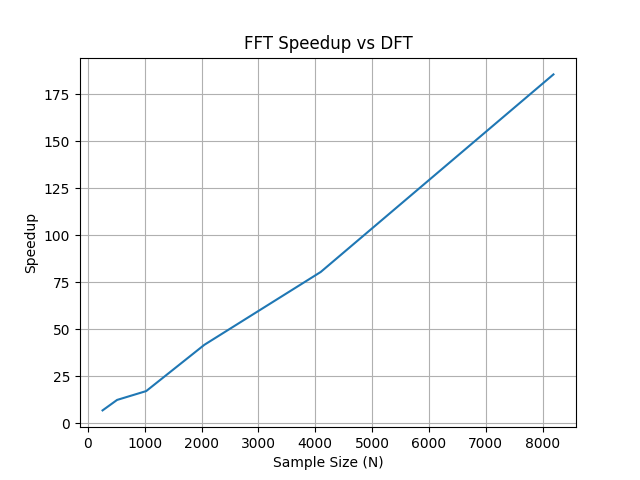
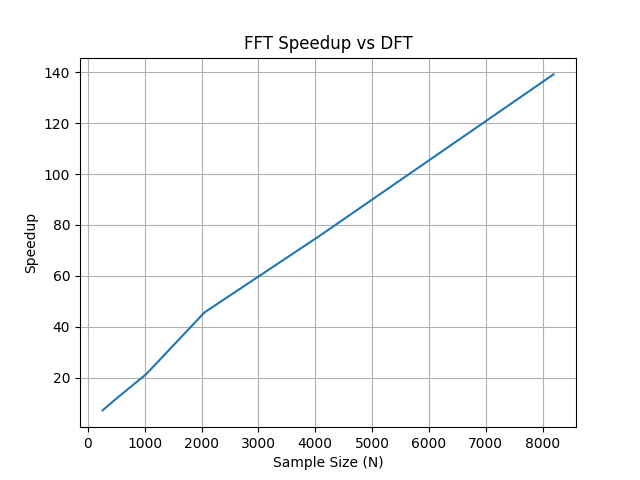
Added raw vs filtered spectrum analysis and updated README

diff --git a/src/main.cpp b/src/main.cpp
@@ -22,9 +22,10 @@ int main() {
     // Create a SignalGenerator instance
     SignalGenerator gen(sampleRate, numSamples); // Sample rate: 1024 Hz, 1024 samples
     
-    // Run the benchmark suite and export results to CSV
+    // Create a BenchmarkSuite instance
     BenchmarkSuite suite(sampleRate);
 
+    // Run the benchmark suite and export results to CSV
     auto results = suite.runAll();
     CSVExporter::exportBenchmarkResults("plots/benchmark_results.csv", results);
 
@@ -33,12 +34,13 @@ int main() {
     gen.addSineWave(50.0, 1.0);  // 50 Hz sine wave with amplitude 1.0
     gen.addSineWave(120.0, 0.5); // 120 Hz sine wave with amplitude 0.5
     gen.addSineWave(200.0, 0.6); // 200 Hz sine wave with amplitude 0.6
-
-    gen.setNoiseAmplitude(0.1); // Set noise amplitude
-
+    // Set noise amplitude
+    gen.setNoiseAmplitude(0.1);
+     
+    // Generate the signal
     std::vector<double> signal = gen.generateSignal();
 
-
+    auto raw = signal; // Store the raw signal for later export
 
     // Filter coefficients for a simple low-pass FIR filter
     auto coeffs = createMovingAverageFilter(10); // 10-point moving average filter
@@ -49,31 +51,35 @@ int main() {
     
     // Create an FFTProcessor instance with the same sample rate
     FFTProcessor fft(sampleRate, N); // sample rate: 1kHz
-    std::vector<double> magnitudes = fft.computeMagnitudeFFT(filteredSignal);
-    std::cout << "DFT Magnitudes:" << std::endl;
-    for (size_t i = 0; i < 100; i++) {  
-        double freq = fft.binToFrequency(i);
-        std::cout << "Bin " << i << " (" << freq << " Hz): " << magnitudes[i] <<std::endl;
-    }
+    std::vector<double> filteredSpectrum = fft.computeMagnitudeFFT(filteredSignal);
+
+
+    // Create an FFTProcessor instance with raw.size() as the FFT size
+    FFTProcessor fft2(sampleRate, raw.size()); // sample rate: 1kHz
+    std::vector<double> rawSpectrum = fft2.computeMagnitudeFFT(raw);
+
 
     // Detect peaks in the magnitude spectrum
     PeakDetection peakDetector;
-    auto peaks = peakDetector.detectPeaks(magnitudes, 0.1); // Threshold for peak detection
+    auto peaks = peakDetector.detectPeaks(filteredSpectrum, 0.1); // Threshold for peak detection
 
     for (auto& p : peaks) {
         int bin = p.first;
         double mag = p.second;
 
-        double freq = fft.binToFrequency(bin);
+        double freq = fft2.binToFrequency(bin);
 
         std::cout << "Peak detected: " << freq << " Hz (mag=" << mag << ")\n";
     }
 
-    // Export the magnitude spectrum to a CSV file
-    CSVExporter::exportSpectrum("plots/magnitude_spectrum.csv", magnitudes, sampleRate, N);
+    // Export the filtered spectrum to a CSV file
+    CSVExporter::exportSpectrum("plots/magnitude_spectrum.csv", filteredSpectrum, sampleRate, filteredSignal.size());
+
+    // Export the raw spectrum to a CSV file
+    CSVExporter::exportSpectrum("plots/raw_magnitude_spectrum.csv", rawSpectrum, sampleRate, raw.size());
 
     // Export the detected peaks to a CSV file
-    CSVExporter::exportPeaks("plots/detected_peaks.csv", peaks, sampleRate, N);
+    CSVExporter::exportPeaks("plots/detected_peaks.csv", peaks, sampleRate, raw.size());
 
     // Export the time-domain signal to a CSV file
     CSVExporter::exportSignal("plots/time_domain_signal.csv", filteredSignal, sampleRate);  

diff --git a/scripts/plot_benchmarks.py b/scripts/plot_benchmarks.py
@@ -3,7 +3,8 @@ import matplotlib.pyplot as plt
 
 
 df = pd.read_csv("plots/benchmark_results.csv")
-ms = pd.read_csv("plots/magnitude_spectrum.csv")
+rms = pd.read_csv("plots/raw_magnitude_spectrum.csv")
+fms = pd.read_csv("plots/magnitude_spectrum.csv")
 td = pd.read_csv("plots/time_domain_signal.csv")
 
 
@@ -34,15 +35,25 @@ plt.grid()
 plt.savefig("plots/speedup.png")
 
 
-# Magnitude Spectrum for a specific sample size
+# Filtered Magnitude Spectrum for a specific sample size using filtered signal
 sample_size = 1024
 plt.figure()
-plt.plot(ms["Frequency_Hz"], ms["Magnitude"], label=f"Magnitude Spectrum (N={sample_size})")
+plt.plot(fms["Frequency_Hz"], fms["Magnitude"], label=f"Magnitude Spectrum (N={sample_size})")
 plt.xlabel("Frequency Bin")
 plt.ylabel("Magnitude")
-plt.title(f"Magnitude Spectrum for Sample Size {sample_size}")
+plt.title(f"Filtered (FIR) Signal Magnitude Spectrum")
 plt.grid()
-plt.savefig("plots/magnitude_spectrum.png")
+plt.savefig("plots/Magnitude_spectrum.png")
+
+# Raw Magnitude Spectrum for a specific sample size using the raw signal
+sample_size = 1024
+plt.figure()
+plt.plot(rms["Frequency_Hz"], rms["Magnitude"], label=f"Magnitude Spectrum (N={sample_size})")
+plt.xlabel("Frequency Bin")
+plt.ylabel("Magnitude")
+plt.title("Raw Signal Magnitude Spectrum")
+plt.grid()
+plt.savefig("plots/raw_signal_spectrum.png")
 
 
 # Time-Domain Signal

diff --git a/README.md b/README.md
@@ -174,6 +174,15 @@ This project benchmarks Direct Fourier Transform (DFT) against Fast Fourier Tran
 This demonstrates the computational advantage of FFT for large-scale signal processing applications.
 ---
 
+## FIR Filtering Comparisons
+
+### Raw Signal Spectrum
+
+![Raw Signal Spectrum](plots/raw_signal_spectrum.png)
+
+### Filtered Signal Spectrum
+![Filtered Signal Spectrum](plots/Magnitude_spectrum.png)
+
 ## Benchmark Visualizations
 
 ### DFT vs FFT Timing